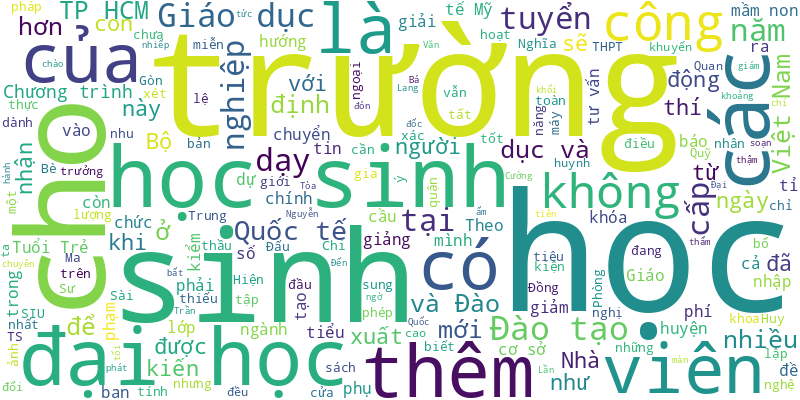
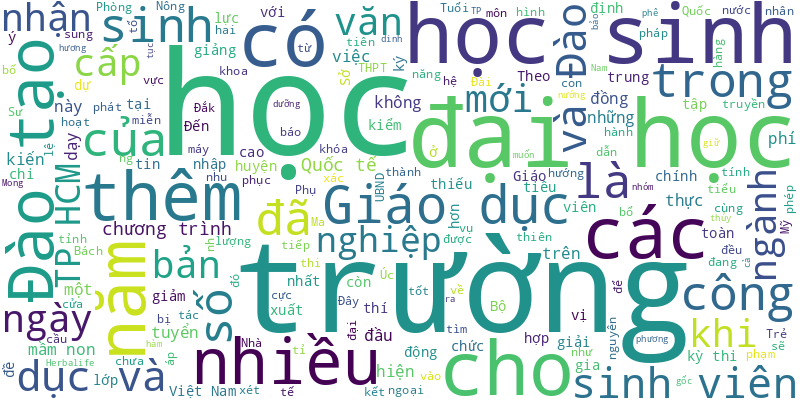
🍀 = 50%

diff --git a/README.md b/README.md
@@ -1,6 +1,21 @@
 # Tuoi Tre RSS 
 
 ## Giáo dục 
+- Mong muốn bảo toàn hương vị cà phê, nhóm sinh viên Trường đại học Bách khoa (Đại học Quốc gia TP.HCM) đã tìm ra phương pháp thủy nướng, giữ nguyên bản vị gốc và hàm lượng dinh dưỡng cao.
+- Đài truyền hình Việt Nam cùng Herbalife Việt Nam tiếp tục đồng hành cùng tổ chức mùa thứ hai chương trình truyền hình thực tế "Sinh viên thế hệ mới 2024"
+- Vinamilk trao giải thưởng đặc biệt cho các tài năng robot trong Robotacon WRO 2024.
+- Hai đơn vị ký kết hợp tác trên nhiều lĩnh vực, trong đó có các hoạt động phục vụ cộng đồng.
+- Phụ huynh ở nhiều nước châu Âu đang đối diện nhiều áp lực khi chi phí mua đồng phục và đồ dùng học tập cho con tăng cao trước thềm bắt đầu năm học mới 2024 - 2025.
+- Các trường mầm non, tiểu học trên địa bàn TP.HCM đã phát hiện 21 học sinh bị bệnh sởi trong tháng 8-2024.
+- Ngày 29-8, tại Trường đại học Đại Diệp (Chương Hóa, Đài Loan), một số trường cao đẳng, trung cấp từ TP.HCM đã có những ký kết hợp tác đào tạo nhân lực ngành bán dẫn với đại học này.
+- 270.000 là con số được chú ý nhất những ngày qua tại Úc. Đây là 'mức trần' tổng số du học sinh Chính phủ Úc cho phép các đại học, trường nghề tiếp nhận trong năm 2025.
+- Một số trường ở Đắk Nông bị sạt lở, sụt lún không an toàn để dạy học, cạnh đó là thiếu đến 2.100 giáo viên các cấp.
+- Kỳ thi Olympic thiên văn và vật lý thiên văn quốc tế 2024, Việt Nam có 5 học sinh dự thi và đều đoạt giải.
+- Đến nay có thêm hàng loạt trường đại học phía Nam công bố xét tuyển bổ sung đại học chính quy, với hàng ngàn chỉ tiêu nhiều ngành.
+- Sở Giáo dục và Đào tạo TP.HCM vừa có văn bản hướng dẫn về việc thực hiện chương trình nhà trường ngoài giờ chính khóa năm học 2024 - 2025.
+- Sở Giáo dục và Đào tạo Hà Nội công bố đề minh họa các môn thi vào lớp 10 năm học 2025-2026. Đây là kỳ thi tuyển sinh lớp 10 đầu tiên theo chương trình mới.
+- Ngày 29-8, ông Huỳnh Ngọc Nguyên - phó chủ tịch UBND huyện Vĩnh Thuận, tỉnh Kiên Giang - ký văn bản gửi Phòng Giáo dục và Đào tạo huyện về việc “khai giảng năm học mới và tổ chức giảng dạy, học tập của Trường THCS Thị Trấn”.
+- Dạy thêm, học thêm một khi trở thành nhu cầu thực tế thì mọi việc cấm đoán hay nới lỏng đều có thể mang lại những hệ quả tiêu cực.
 - TS Nguyễn Bá Cường - giám đốc Nhà xuất bản Đại học Sư phạm - đề xuất chính sách miễn học phí cho sinh viên ngành xuất bản, phát hành, thậm chí có phụ cấp như sinh viên sư phạm.
 - Đến tối 27-8, vẫn còn hơn 360 học sinh Trường Quốc tế Mỹ chưa chuyển trường trong số khoảng hơn 1.000 học sinh của trường này.
 - Lần đầu tiên, 400 sinh viên Trường đại học Văn Lang sẽ học thẩm định tin tức, nhiếp ảnh tại Tòa soạn báo Tuổi Trẻ.
@@ -16,53 +31,38 @@
 - Giữa 'ma trận' thông tin trên mạng, Chương trình tư vấn tuyển sinh - hướng nghiệp của báo Tuổi Trẻ như 'bộ lọc' uy tín, giúp học sinh chọn ngành, trường phù hợp.
 - Ngoài kỹ năng học tập, trau dồi ngoại ngữ, tham gia các hoạt động ngoại khóa, tân sinh viên còn cần thêm những gì khi bước vào giảng đường đại học?
 - Theo Vụ Giáo dục đại học - Bộ Giáo dục và Đào tạo, tỉ lệ thí sinh nhập học chiếm 81,87% số thí sinh trúng tuyển đại học đợt 1 năm 2024.
-- Chiều mai, 28-8, Sở Giáo dục và Đào tạo TP.HCM sẽ hướng dẫn chi tiết các thủ tục cho học sinh Trường quốc tế Mỹ chuyển trường theo nguyện vọng tại hai địa chỉ ở huyện Nhà Bè.
-- Các trường công lập tại TP.HCM không biết làm sao khi Luật Đấu thầu yêu cầu phải... đấu thầu cả nguồn cung cấp thực phẩm cho bếp ăn trường tự nấu.
-- Lãnh đạo Đại học RMIT Việt Nam khẳng định vẫn được cấp phép hoạt động ở tất cả các cơ sở tại Việt Nam. Nhưng nhà trường đang tạm dừng tuyển sinh khóa mới tại cơ sở Hà Nội.
-- PGS.TS Phạm Quang Huy sẽ thôi chức phó trưởng ban đào tạo Đại học Kinh tế TP.HCM từ ngày 1-9 để chuyển sang công tác giảng dạy và nghiên cứu khoa học.
-- Huyện vùng cao, biên giới Quan Sơn (Thanh Hóa) vừa ra mắt Quỹ khuyến học - khuyến tài Hoa Ban, với tổng số tiền huy động được cho quỹ là hơn 1,7 tỉ đồng.
-- Tại buổi đối thoại với đại học Việt Nam, các tập đoàn công nghệ đưa ra nhiều giải pháp nâng cao chất lượng đào tạo, hỗ trợ sinh viên...
-- Toàn bộ 523 đơn đăng ký vào Trường tiểu học Tây Mỗ 3 của phụ huynh gửi Phòng Giáo dục và Đào tạo quận Nam Từ Liêm hôm 21-8 đều không được giải quyết.
-- Tất cả 180 trường tiểu học ở Singapore đều có lớp học năng khiếu dành cho các học sinh xuất sắc và giáo viên riêng để giảng dạy các lớp này.
-- Có những ông bố, bà mẹ nghĩ con mình là vàng, con thiên hạ là "rơm rác" nên luôn bênh con mình và cư xử thô bạo với con người khác.
-- Việt Nam đề nghị Úc tạo điều kiện, không để các chính sách mới ảnh hưởng tiến độ cấp visa cho du học sinh Việt Nam.
-- Trước dự báo có nhiều thay đổi về tuyển sinh năm học tới, ngày 27-8, Tuổi Trẻ tổ chức tọa đàm đổi mới chương trình tư vấn tuyển sinh - hướng nghiệp.
-- Ngay từ xa xưa, người ta đã quan niệm giáo dục có nghĩa là khơi ra, chứ không phải là nhồi vào như ta hằng tưởng.
-- Hiệu trưởng một trường THCS ở TP.HCM tư vấn như vậy trong cuộc gặp gỡ phụ huynh của trường nhân năm học mới 2024-2025.
-- Nhằm tạo thêm cơ hội cho các thí sinh, Trường Đại học Quốc tế Sài Gòn (SIU) xét tuyển bổ sung 300 chỉ tiêu.
-- Dạy thêm, học thêm là nhu cầu chính đáng của người học và người dạy, cần quy định rõ ràng hơn để tránh dạy thêm biến tướng.
 ![Edu](Edu.png)
 ## Thời Sự 
-- Liên quan vụ xe tải rẽ phải tông chết người trên quốc lộ 51, công an đã tạm giữ tài xế xe tải để điều tra.
-- Tại dự thảo nghị định sửa đổi mới nhất, Bộ Tài chính đề xuất kéo dài thời gian thí điểm cho người Việt Nam vào chơi casino đầu tiên tại Phú Quốc đến 31-12-2024.
-- Dự án Bệnh viện Đa khoa tỉnh Bình Dương quy mô 1.500 giường vẫn chỉ là một khối bê tông sừng sững. Dự án này được tỉnh khởi công từ tháng 8-2014, nay sau mười năm vẫn chưa thể đi vào hoạt động.
-- Một số tin tức đáng chú ý: Xử phạt doanh nghiệp vì 'lỗ nhưng báo cáo lãi'; Những điều cần biết về bảo hiểm y tế học sinh sinh viên; Lễ Quốc khánh đến Thảo cầm viên Sài Gòn...
-- Hôm nay 29-8, thời tiết các tỉnh thành Bắc Bộ và Trung Bộ nắng nóng đến nắng nóng gay gắt, còn Nam Bộ và Tây Nguyên mưa rào đến mưa to.
-- Ngày 28-8, Chủ tịch UBND tỉnh Khánh Hòa Nguyễn Tấn Tuân cùng các ban, ngành đã tiếp, đối thoại với các công dân bị thu hồi đất tại Sông Lô, TP Nha Trang cho Công ty TNHH Hoàn Cầu làm dự án nhưng bỏ hoang 22 năm qua.
-- Nguyên chủ tịch, nguyên phó chủ tịch và chủ tịch Hội Liên hiệp phụ nữ tỉnh Hải Dương vừa bị kỷ luật vì những vi phạm làm ảnh hưởng xấu đến uy tín của tổ chức đảng, tổ chức hội.
-- Trong số hơn 150 công nhân nhập viện nghi ngộ độc, 6 người có triệu chứng sốc phản vệ độ II như đau bụng, nôn, nổi mề đay toàn thân, khó thở nhẹ.
-- Được gặp lãnh đạo cấp cao Việt Nam, Bí thư Khu ủy Quảng Tây Lưu Ninh bày tỏ mong muốn thông qua Quảng Tây để kết nối, đưa hàng hóa Việt Nam vào sâu Trung Quốc và sang các nước thứ ba.
-- Sở Tài chính, Sở Giao thông vận tải và UBND quận 6 bị nhắc nhở về giải ngân vốn đầu tư công đến lần thứ 4.
-- Đó là định hướng trong Quy hoạch phát triển mạng lưới báo chí, phát thanh truyền hình, thông tin điện tử, cơ sở xuất bản thời kỳ 2021-2030, tầm nhìn đến năm 2050 vừa được Bộ Thông tin và Truyền thông trình Chính phủ.
-- Tiếp tục phiên xử giang hồ Quân 'Idol', đàn em Lê Văn Sơn khai nhận đã 5 lần vận chuyển ma túy cho Quân 'Idol', tiền công từ 20 - 30 triệu đồng/chuyến và mọi chỉ đạo đều qua Zalo.
-- Một phụ nữ 40 tuổi rơi vào hôn mê sâu sau khi phẫu thuật hút mỡ bụng và mỡ hai cánh tay tại một bệnh viện ở TP.HCM và phải chuyển Bệnh viện Chợ Rẫy cấp cứu.
-- Các bác sĩ ở Trung tâm Y tế TP Phú Quốc, tỉnh Kiên Giang vừa kịp thời mổ cứu một sản phụ bị thai ngoài tử cung vỡ, mất máu nặng.
-- Để xảy ra tình trạng tàu cá của địa phương vi phạm khai thác bất hợp pháp ở vùng biển nước ngoài phải tổ chức kiểm điểm nghiêm túc, xác định rõ trách nhiệm của người đứng đầu các cơ quan, lực lượng chức năng có liên quan.
-- Vành đai 4 TP.HCM dài 207km đi qua 5 địa phương có tổng mức đầu tư ước tính khoảng 128.063 tỉ đồng.
-- Sở Giao thông vận tải TP.HCM đề nghị Bộ Giao thông vận tải giao các đơn vị làm rõ sự phù hợp giữa các quy hoạch đường sắt ở đoạn Bình Triệu - Sài Gòn và tính khả thi của đường sắt xuyên tâm.
-- Thiết kế của cảng trung chuyển quốc tế cửa ngõ Sài Gòn phải đồng bộ, tổng thể, chi tiết cho 7 giai đoạn, giải quyết mối quan hệ với các cụm cảng biển khác, hạ tầng dùng chung...
-- Công an tỉnh An Giang chuyển hồ sơ, đề nghị truy tố nhóm người chuyên sản xuất, mua bán và lưu hành hàng trăm triệu đồng tiền giả liên tỉnh.
-- Ngày 28-8, Tổng Bí thư, Chủ tịch nước Tô Lâm dự, phát biểu chỉ đạo lễ khai giảng lớp bồi dưỡng kiến thức, kỹ năng với cán bộ quy hoạch ủy viên Ban Chấp hành Trung ương Đảng khóa XIV (lớp thứ 2).
-- Doanh nghiệp đề nghị cấp phép thăm dò vàng ở Phước Sơn nhưng huyện không thống nhất vì lo mất rừng.
-- Phó chủ tịch UBND TP.HCM Dương Ngọc Hải đôn đốc các đơn vị thực hiện dứt điểm 8 nội dung chỉ đạo liên quan kết luận thanh tra về dự án nhà ở phường Long Bình.
-- Nhiều đại biểu Quốc hội đồng tình thành lập văn phòng công chứng là doanh nghiệp tư nhân để đáp ứng nhu cầu của người dân.
-- Dự án khu công viên phần mềm số 2 (Đà Nẵng) với tổng vốn đầu tư gần 1.000 tỉ đồng khi nào sẽ hoạt động?
-- Sáng mai 29-8, báo Tuổi Trẻ tổ chức công bố cuộc thi 'Chuyển đổi chiếu sáng xanh hướng tới Net Zero'. Đây là chương trình nằm trong chuỗi sự kiện 'Việt Nam Xanh'.
-- Nhiều tài sản, nhà cửa, vườn thanh long… người dân ở huyện Hàm Thuận Nam, tỉnh Bình Thuận ngập sâu trong nước do mưa lớn kéo dài nhiều ngày qua.
-- Gặp Trưởng Ban Tuyên giáo Trung ương Nguyễn Trọng Nghĩa, các lãnh đạo Brazil đều nhắc đến giai đoạn Bác Hồ từng ở nước này, mong muốn tăng cường quan hệ song phương.
-- Công an tỉnh Bình Thuận huy động lực lượng tiếp tục kiểm tra trại heo Tân Long ở xã Tân Hà, huyện Hàm Tân nhằm xác định có hay không dịch tả heo châu Phi.
-- Hàng chục con trâu dính bẫy thú rừng, gây thiệt hại hàng trăm triệu đồng cho bà con đồng bào Raglai ở xã Phước Kháng (huyện Thuận Bắc, tỉnh Ninh Thuận).
-- Sáng 28-8, TAND TP.HCM mở phiên tòa sơ thẩm, tuyên phạt bị cáo Lê Hoàng Quí (41 tuổi, quê Sóc Trăng) 12 năm tù về tội giết người (nạn nhân là vợ hờ) và buộc bồi thường 23,4 triệu đồng cho bị hại.
+- TP.HCM vừa có chỉ đạo mới nhất về việc triển khai bồi thường, giải phóng mặt bằng, tái định cư cho người dân liên quan đến dự án cao tốc TP.HCM - Mộc Bài.
+- Hiện có nhiều nhà đầu tư tại TP.HCM muốn tham gia kinh doanh lĩnh vực trạm sạc xe điện. Tuy nhiên vẫn còn nhiều bất cập về thủ tục, quy định.
+- Sáng sớm nay (30-8), tại nhiều tỉnh miền Bắc có mưa to đến rất to kèm theo sấm sét dày đặc khiến nhiều người bất ngờ.
+- Sau hơn 20 năm giao trên 100ha đất TP Nha Trang cho Hà Quang làm dự án bất động sản và bán cho hàng ngàn hộ dân, tỉnh Khánh Hòa mới quyết định giá thu tiền sử dụng đất lần đầu nhưng chủ dự án chưa chấp nhận nộp.
+- Sáng 30-8, thi thể của nạn nhân thứ 2 bị nước cuốn trôi khi qua ngầm tràn tại xã Đăk Hlơ, huyện Kbang (Gia Lai) đã được tìm thấy.
+- Một số tin tức đáng chú ý: Đường dây nóng phản ánh giao thông dịp lễ; TP.HCM hạn chế xe nhiều đường khu vực trung tâm...
+- Sau một ngày nắng, thời tiết Bắc Bộ có mưa trở lại, Trung Bộ vẫn nắng nóng diện rộng, Nam Bộ duy trì mưa dông chiều tối.
+- Đó là những khẳng định của Tổng Bí thư, Chủ tịch nước Tô Lâm tại lễ kỷ niệm 79 năm Quốc khánh, nhấn mạnh quyết tâm hiện thực hóa các mục tiêu phát triển đất nước, không để ai bị bỏ lại phía sau.
+- Tổng Bí thư, Chủ tịch nước Tô Lâm nêu rõ quy hoạch Ban Chấp hành Trung ương Đảng, Bộ Chính trị, Ban Bí thư là công việc rất hệ trọng, sẽ được thực hiện thường xuyên từ nay đến Đại hội XIV.
+- Tối 29-8, Thành ủy, HĐND, UBND, Ủy ban MTTQ Việt Nam TP.HCM tổ chức tiệc chiêu đãi chào mừng 79 năm Quốc khánh nước CHXHCN Việt Nam tại trụ sở UBND TP.HCM.
+- Sở Giao thông vận tải tỉnh Phú Yên vừa có văn bản yêu cầu các địa phương hoàn thành di dời hạ tầng kỹ thuật điện trong tháng 9 nhằm giải phóng mặt bằng dự án cao tốc Bắc - Nam tại các đoạn Chí Thạnh - Vân Phong, Quy Nhơn - Chí Thạnh.
+- Ngày 29-8, Thủ tướng Phạm Minh Chính ký ban hành Chỉ thị số 30/CT-TTg về phát triển các ngành công nghiệp văn hóa Việt Nam.
+- Hiện hầu hết các ca sởi đều tập trung ở các quận, huyện vùng ven, TP.HCM đang tập trung dồn toàn bộ nguồn lực để tiêm vắc xin sởi phòng dịch.
+- UBND TP.HCM vừa có văn bản gửi thủ trưởng các sở ban ngành, chủ tịch UBND quận, huyện và TP Thủ Đức hướng dẫn tổ chức thi tuyển chức danh lãnh đạo, quản lý cấp phòng và tương đương.
+- Lực lượng cảnh sát giao thông sẽ dùng flycam (drone) để tuần tra khu vực cầu Rạch Miễu trong dịp lễ 2-9, nhằm phát hiện các phương tiện đi sai làn và các sự cố trên cầu để kịp thời xử lý tránh kẹt xe.
+- Xe giường nằm biển kiểm soát tỉnh Quảng Nam bất ngờ bốc cháy trên cao tốc Cam Lâm - Vĩnh Hảo.
+- ACV cho rằng việc nhà thầu liên danh Đèo Cả đánh giá gói thầu 6.300 tỉ ở sân bay Long Thành có thể  thất thoát ngân sách là nhận định chủ quan.
+- Liên quan đến việc TP.HCM ngưng cấp phép tầng hầm, Sở Xây dựng đã đề xuất các giải pháp trước mắt. Tuy nhiên để đảm bảo đúng pháp luật, Sở Quy hoạch - Kiến trúc phải vận dụng nghị quyết 98, sớm trình bổ sung quy hoạch không gian ngầm.
+- Tình trạng cáp viễn thông, dây điện chằng chịt "như mạng nhện" xuất hiện khắp các con đường, ngõ hẻm ở TP.HCM. Nhiều người dân thắc mắc, lỡ dây cáp mắc trúng xe, người đi đường thì ai sẽ chịu trách nhiệm?
+- Một nhóm người ngoại tỉnh đến Đà Nẵng dùng thủ đoạn hack tài khoản Facebook của người khác nhằm lừa đảo chiếm đoạt tài sản vừa bị Công an Đà Nẵng phát hiện.
+- Hà Nội sẽ có thêm 6 dự án nhà ở xã hội với tổng diện tích gần 13ha tại quận Ba Đình, Long Biên, huyện Thanh Trì và Thạch Thất.
+- Trong khi dọn dẹp hiện trường vụ nổ trước đó làm hai vợ chồng tử vong ở huyện Quỳ Hợp (Nghệ An), một vụ nổ mới xảy ra làm hai người lái máy xúc gặp nạn.
+- Sau 2 ngày xét xử, Tòa án nhân dân tỉnh Quảng Trị tuyên phạt 'Quân Idol' và 3 đồng phạm mức án tử hình vì tội vận chuyển trái phép chất ma túy, các bị cáo khác bị phạt từ 5 - 15 năm tù.
+- Ủy ban Kiểm tra Trung ương đã kỷ luật cảnh cáo chủ tịch HĐND, UBND tỉnh Bắc Giang và nhiều cán bộ khác. Đồng thời đề nghị kỷ luật một số cán bộ.
+- Phó giám đốc Sở Du lịch TP.HCM Lê Trương Hiền Hòa cho rằng khách từ Ấn Độ khi đến du lịch Việt Nam lần đầu thường chọn thủ đô để du lịch văn hóa. TP.HCM cũng tổ chức nhiều hoạt động xúc tiến du lịch với thị trường Ấn Độ.
+- Sở Giao thông vận tải TP.HCM vừa ra kế hoạch phục vụ nhu cầu người dân đi lại và đảm bảo trật tự, an toàn giao thông trong dịp lễ 2-9.
+- Thanh niên không nghề nghiệp vào quán ăn giật giỏ xách của khách nữ để lấy tiền tiêu xài. Người này đã bị tạm giữ hình sự sau một thời gian lẩn trốn.
+- Công an TP.HCM đã nắm được phương thức hoạt động, cách thức tổ chức xổ số Labubu và đang thu thập tài liệu để xử lý nếu phát hiện vi phạm.
+- Tại điện đàm, Thủ tướng Thái Lan Paetongtarn Shinawatra nhận lời mời sớm thăm Việt Nam, mong gặp và trao đổi trực tiếp với Thủ tướng Phạm Minh Chính thời gian tới.
+- Vành đai 4 TP.HCM có chiều dài khoảng 207km nối 5 tỉnh thành trong vùng Đông Nam Bộ, có mốc hoàn thành thủ tục trước 15-9.
 ![New](News.png)
 ## Nhịp sống số 
 - Apple chính thức thông báo sẽ tổ chức sự kiện ra mắt iPhone 16, một trong những sự kiện công nghệ được mong đợi nhất hành tinh, vào ngày 9-9.
